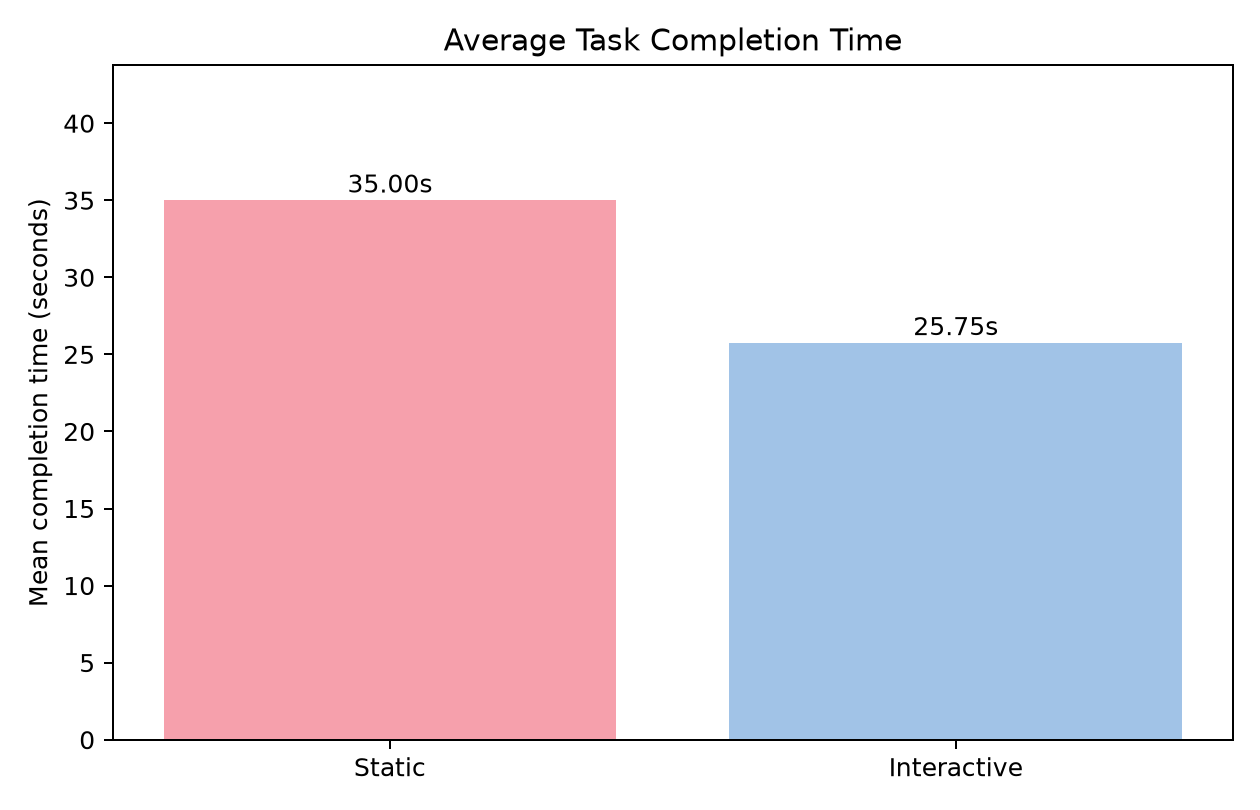
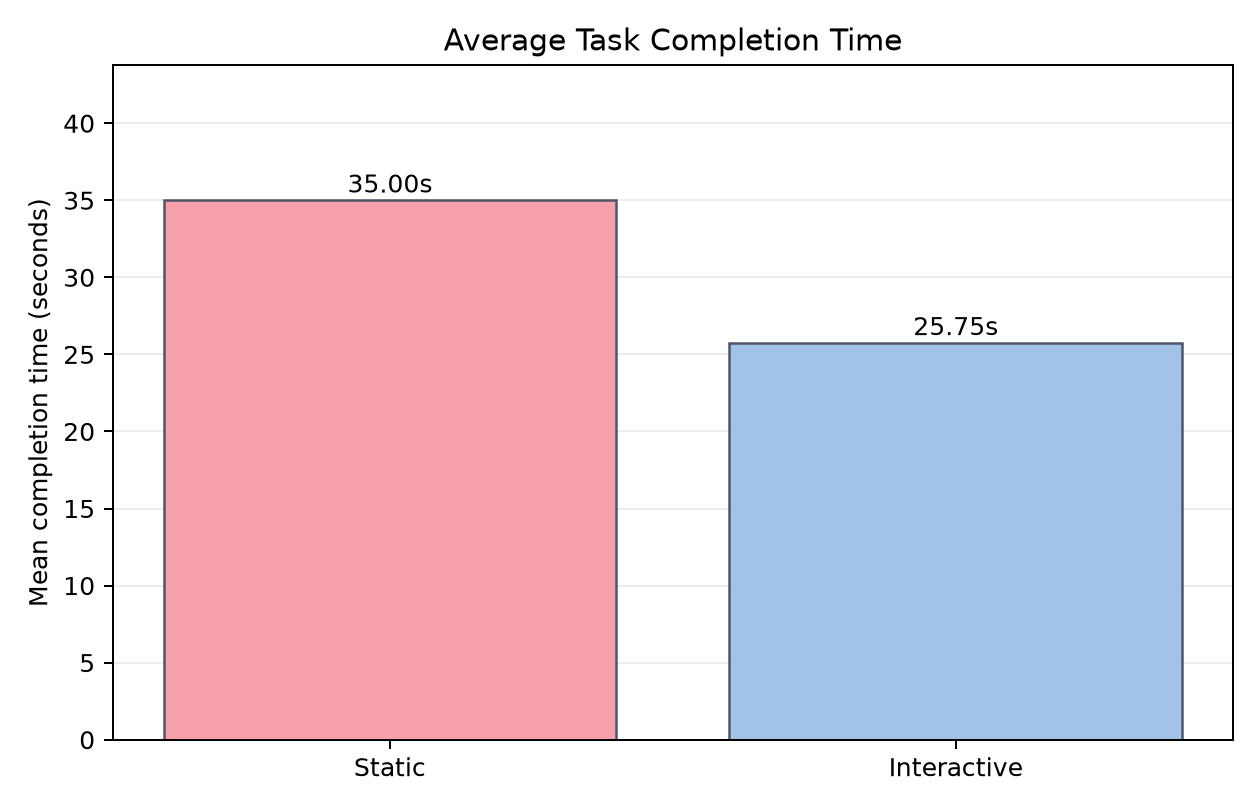
Refine Assignment 3 charts for academic readability

Changed region(s): [[0.5881, 0.4012, 0.9286, 0.4321], [0.4643, 0.2469, 0.4952, 0.2778], [0.1238, 0.2469, 0.1548, 0.2778]]

diff --git a/assignment3/analysis/analyze_results.py b/assignment3/analysis/analyze_results.py
@@ -120,6 +120,11 @@ else:
             f"{value:.2f}s",
             ha="center"
         )
+    for bar in ax.patches:
+        bar.set_edgecolor("#4F5568")
+        bar.set_linewidth(1.0)
+    ax.set_axisbelow(True)
+    ax.yaxis.grid(True, color="#E8EAF0", linewidth=0.7)
     fig.tight_layout()
     fig.savefig(OUT / "condition_times.png", dpi=180)
     plt.close(fig)
@@ -149,6 +154,11 @@ else:
     ax.set_ylabel("Mean completion time (seconds)")
     ax.set_title("Completion Time by Task Type")
     ax.legend()
+    for bar in ax.patches:
+        bar.set_edgecolor("#4F5568")
+        bar.set_linewidth(1.0)
+    ax.set_axisbelow(True)
+    ax.yaxis.grid(True, color="#E8EAF0", linewidth=0.7)
     fig.tight_layout()
     fig.savefig(OUT / "task_type_times.png", dpi=180)
     plt.close(fig)
@@ -185,6 +195,11 @@ if "plt" in globals():
             ha="center"
         )
 
+    for bar in ax.patches:
+        bar.set_edgecolor("#4F5568")
+        bar.set_linewidth(1.0)
+    ax.set_axisbelow(True)
+    ax.yaxis.grid(True, color="#E8EAF0", linewidth=0.7)
     fig.tight_layout()
     fig.savefig(
         OUT / "condition_accuracy.png",
